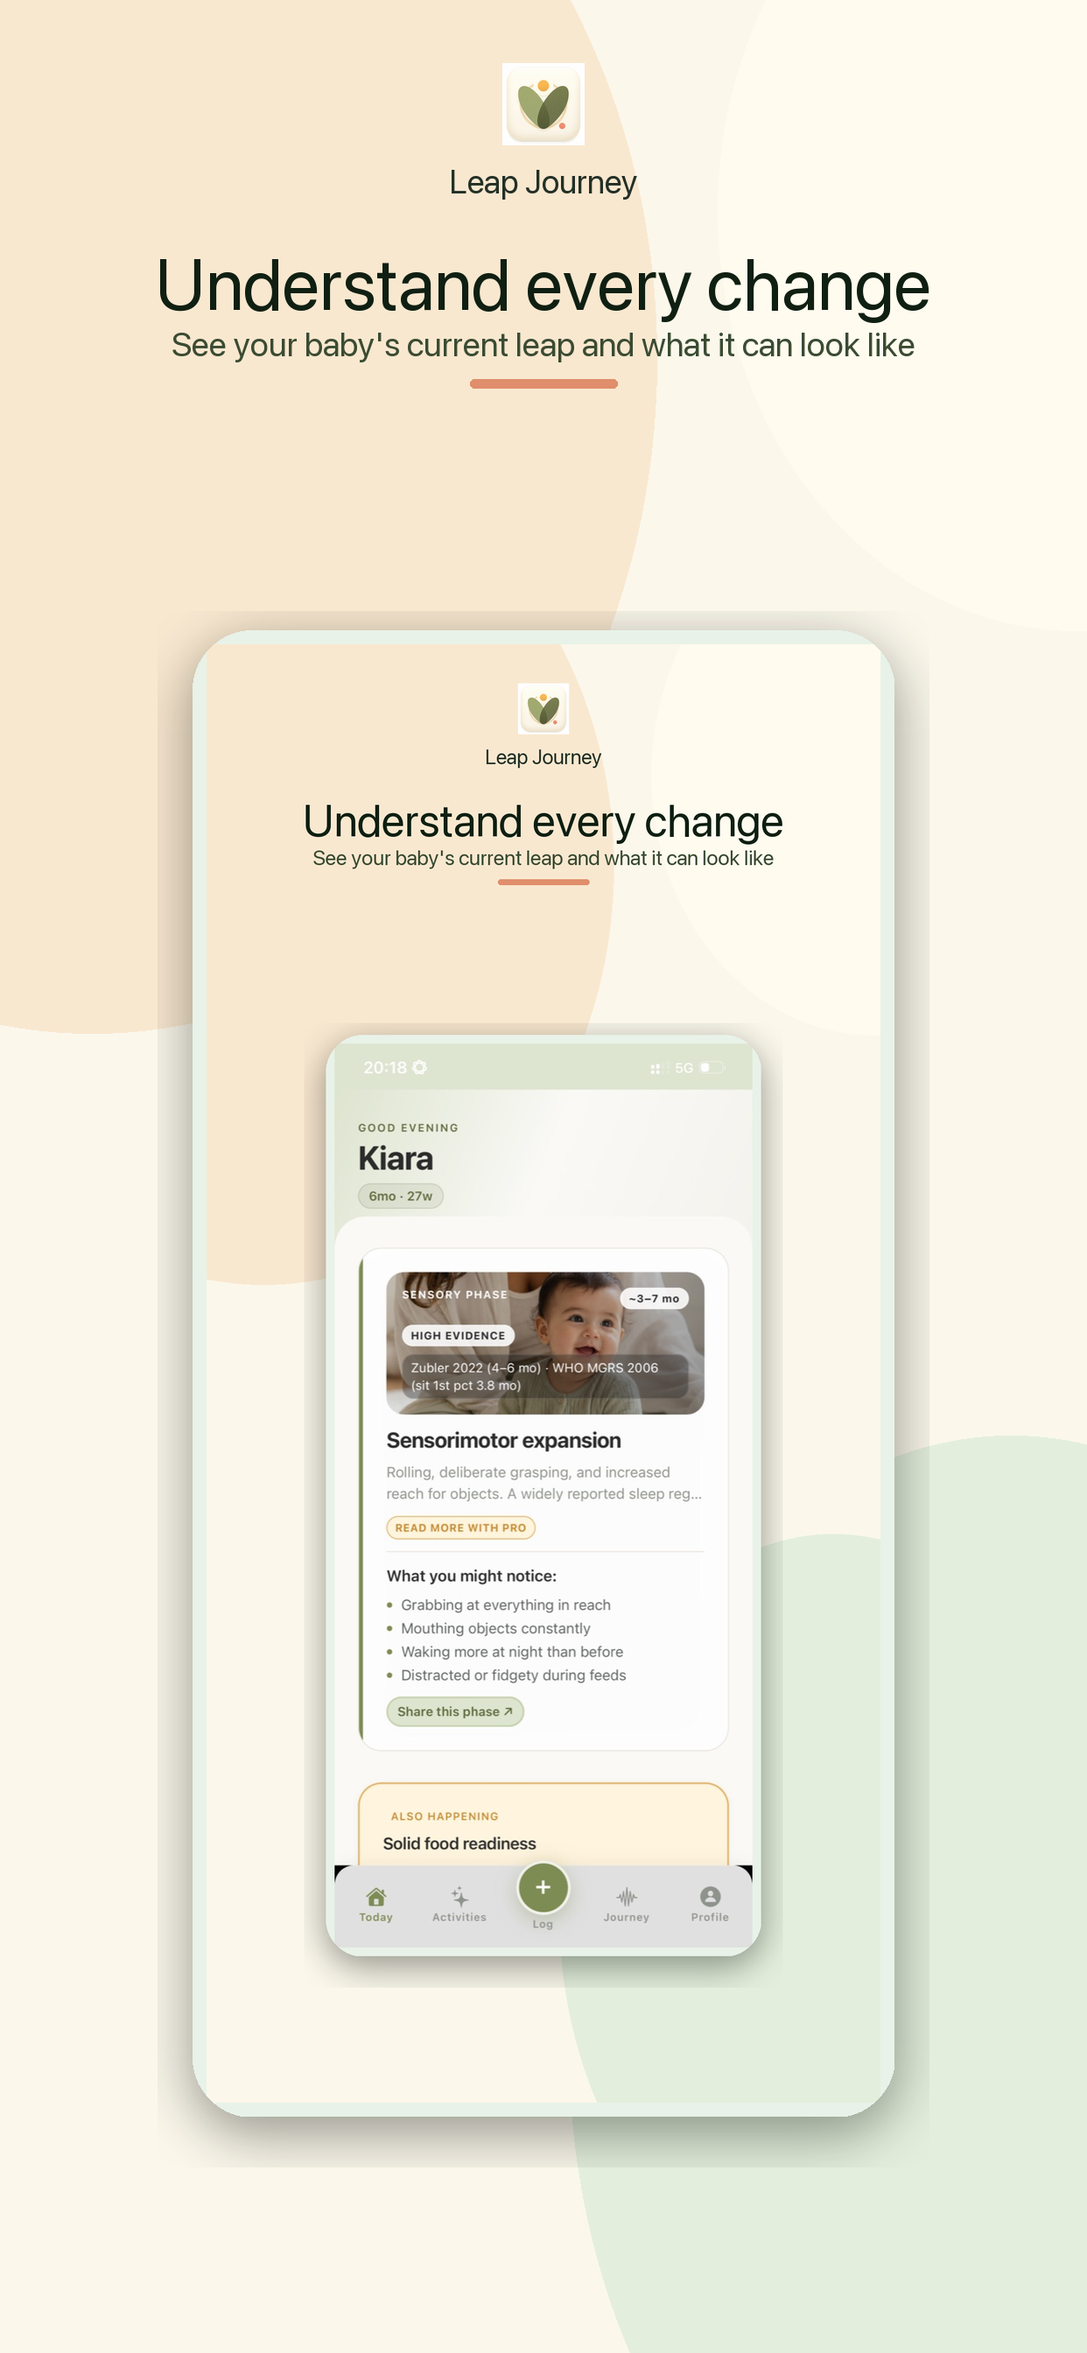
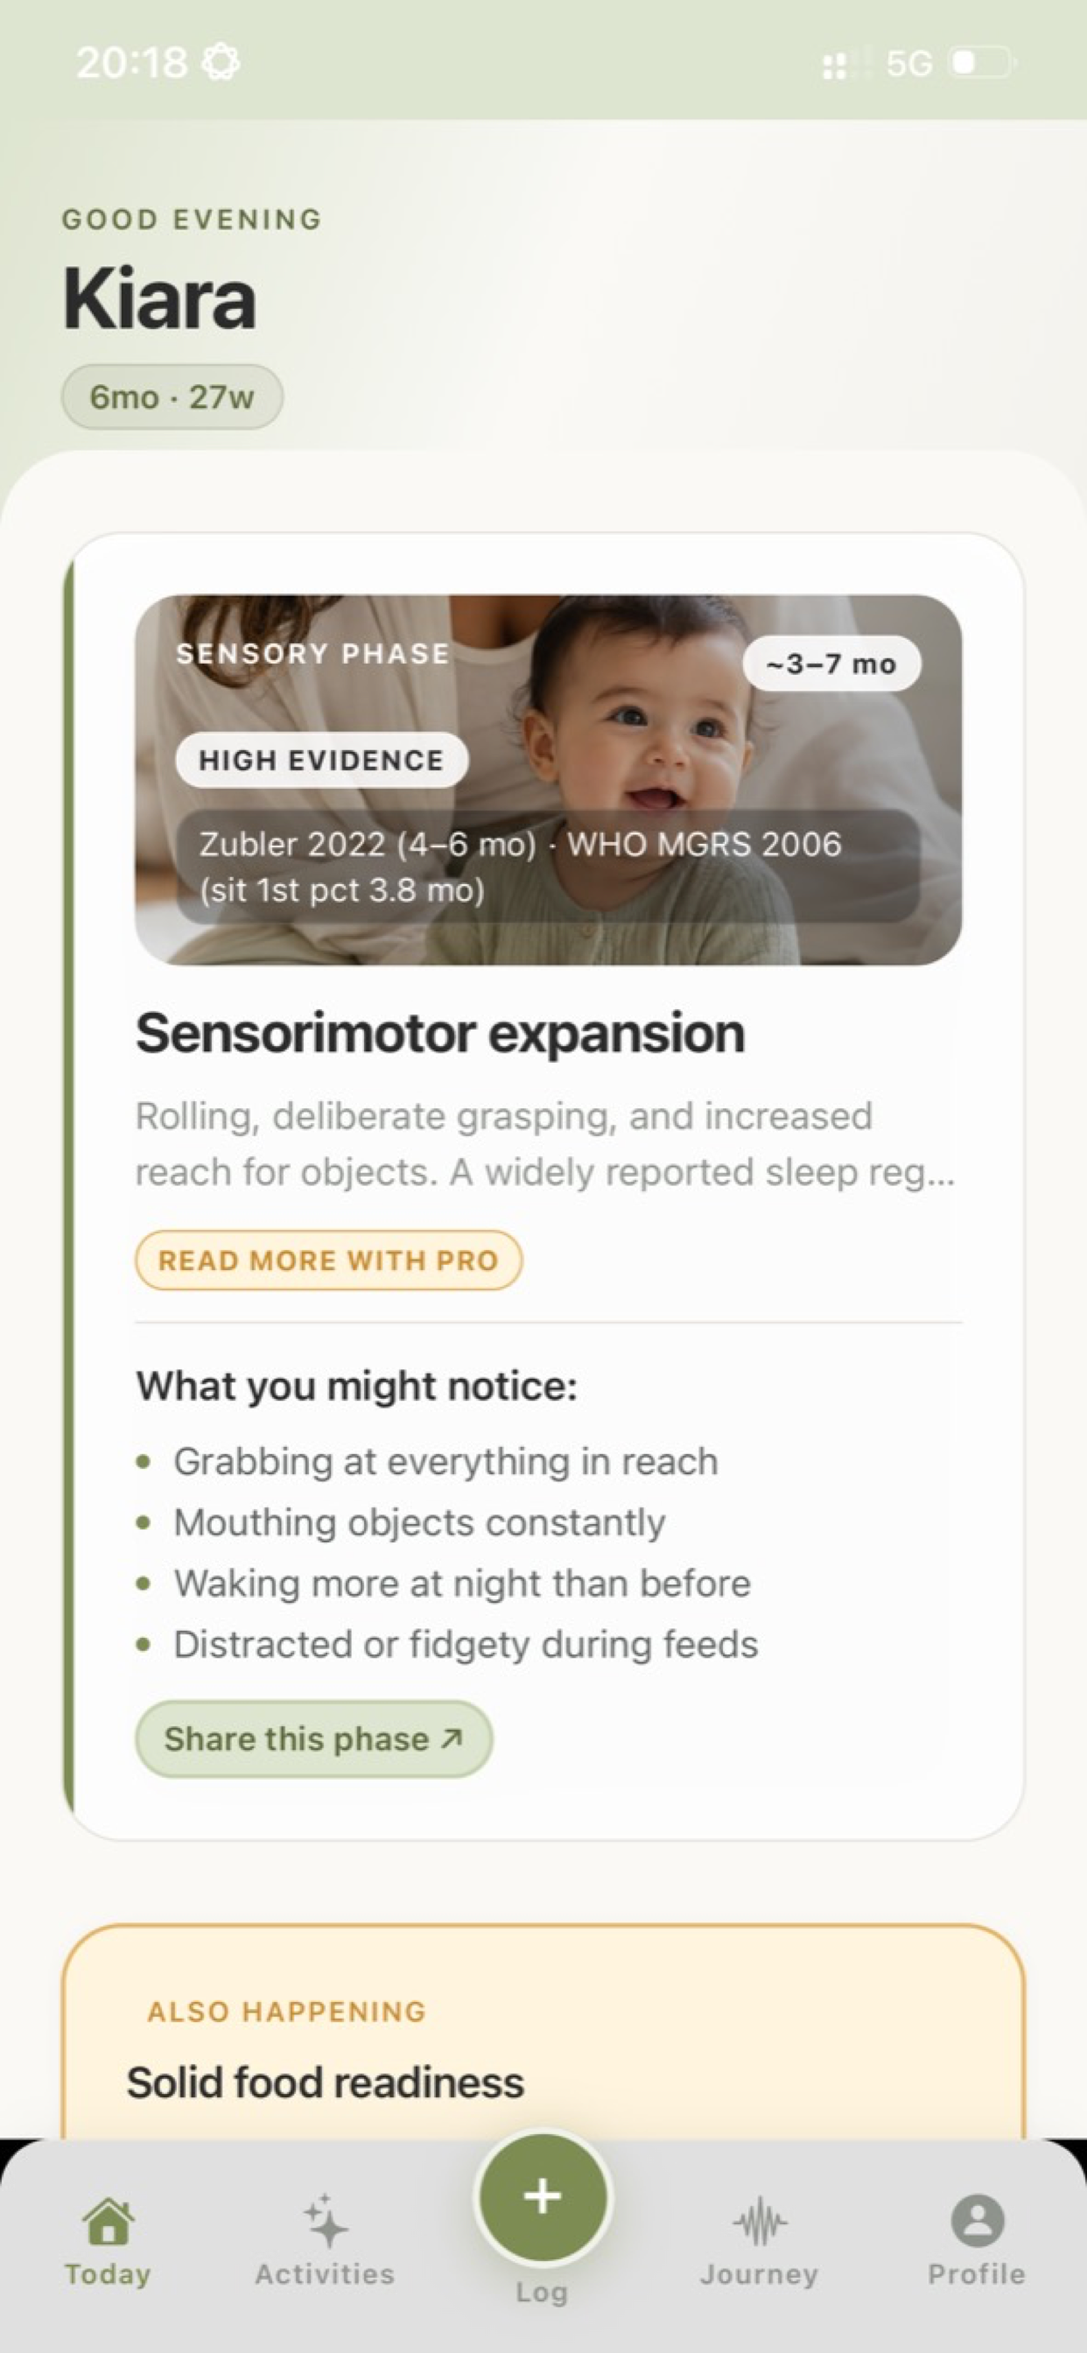
Clarify free features and improve multilingual discovery

diff --git a/index.html b/index.html
@@ -17,6 +17,11 @@
   <meta name="twitter:card" content="summary_large_image" />
 
   <link rel="canonical" href="https://micahwalkerdesign.github.io/NurturaSite/" />
+  <meta name="apple-itunes-app" content="app-id=6770261130" />
+  <link rel="alternate" hreflang="en" href="https://micahwalkerdesign.github.io/NurturaSite/" />
+  <link rel="alternate" hreflang="es" href="https://micahwalkerdesign.github.io/NurturaSite/es/" />
+  <link rel="alternate" hreflang="x-default" href="https://micahwalkerdesign.github.io/NurturaSite/" />
+  <script type="application/ld+json">{"@context":"https://schema.org","@type":"MobileApplication","name":"Leap Journey","operatingSystem":"iOS","applicationCategory":"HealthApplication","url":"https://micahwalkerdesign.github.io/NurturaSite/","installUrl":"https://apps.apple.com/app/id6770261130","offers":{"@type":"Offer","price":"0","priceCurrency":"USD"},"description":"Free baby development tracker with daily logs, memories and two activities per phase. Optional lifetime Premium is a separate in-app purchase."}</script>
 
   <link rel="icon" type="image/png" href="assets/icon.png" />
   <link rel="apple-touch-icon" href="assets/icon.png" />
@@ -45,8 +50,8 @@
     <div class="hero-text">
       <div class="hero-badge">LEAP JOURNEY · BABY DEVELOPMENT</div>
       <h1 class="hero-title">
-        Every baby develops in leaps.<br />
-        <span class="hero-title-accent">Understand yours.</span>
+        Leap Journey<br />
+        <span class="hero-title-accent">Baby development & activities.</span>
       </h1>
       <p class="hero-sub">See your baby's current developmental phase, capture daily patterns, and choose a gentle age-matched activity. Premium is a one-time $2.99 unlock.</p>
       <div class="hero-ctas">
@@ -59,11 +64,11 @@
         </a>
         <a href="#features" class="cta cta-secondary">See what it does →</a>
       </div>
-      <p class="hero-trust">Your data stays on your device. No account required. Pregnancy mode is always free.</p>
+      <p class="hero-trust">Free to download. No account required. Child profiles and logs stay on your device.</p>
     </div>
     <div class="hero-media">
       <div class="phone-frame phone-frame--featured">
-        <img src="assets/screenshots/01-home.png" alt="Leap Journey current development screen" loading="eager" />
+        <img src="assets/screenshots/01-home.png" alt="Leap Journey current development screen" width="1242" height="2688" loading="eager" fetchpriority="high" />
       </div>
     </div>
   </section>
@@ -73,7 +78,7 @@
     <div class="value">
       <div class="value-icon">🌱</div>
       <h3>See the current leap</h3>
-      <p>Know which developmental phase your baby is in right now — and why they're acting the way they are.</p>
+      <p>Explore age-related developmental phases and what you might notice. Every baby's timing is different.</p>
     </div>
     <div class="value">
       <div class="value-icon">💡</div>
@@ -82,7 +87,7 @@
     </div>
     <div class="value">
       <div class="value-icon">🤝</div>
-      <h3>Know exactly what to do</h3>
+      <h3>Find an activity to try</h3>
       <p>Age-specific activities & tips matched to your baby's phase — adapting as you log what you're seeing.</p>
     </div>
   </section>
@@ -98,12 +103,12 @@
     <div class="feature-grid">
       <article class="feature-card feature-card--wide">
         <div class="feature-copy">
-          <h3>Daily check-in in seconds</h3>
-          <p>Tap the big "All good today" button for routine days. Or capture sleep, fussiness, clinginess, and appetite with three-tap sliders. A streak counter celebrates consistency.</p>
+          <h3>Age-matched activities, ready today</h3>
+          <p>Find a simple play idea for your baby's developmental phase. Try two activities per phase for free, with the full activity journey available in Premium.</p>
         </div>
         <div class="feature-media">
           <div class="phone-frame">
-            <img src="assets/screenshots/02-log.png" alt="" loading="lazy" />
+            <img src="assets/screenshots/02-log.png" alt="Activities matched to a baby's phase" width="1242" height="2688" loading="lazy" />
           </div>
         </div>
       </article>
@@ -115,7 +120,7 @@
         </div>
         <div class="feature-media">
           <div class="phone-frame">
-            <img src="assets/screenshots/01-home.png" alt="Leap Journey current phase screen" loading="lazy" />
+            <img src="assets/screenshots/01-home.png" alt="Leap Journey current phase screen" width="1242" height="2688" loading="lazy" />
           </div>
         </div>
       </article>
@@ -127,7 +132,7 @@
         </div>
         <div class="feature-media">
           <div class="phone-frame">
-            <img src="assets/screenshots/06-journey.png" alt="" loading="lazy" />
+            <img src="assets/screenshots/04-journey.png" alt="Developmental phases and memories" width="1242" height="2688" loading="lazy" />
           </div>
         </div>
       </article>
@@ -139,7 +144,7 @@
         </div>
         <div class="feature-media">
           <div class="phone-frame">
-            <img src="assets/screenshots/03-journey.png" alt="Leap Journey activities screen" loading="lazy" />
+            <img src="assets/screenshots/02-log.png" alt="Leap Journey activities screen" width="1242" height="2688" loading="lazy" />
           </div>
         </div>
       </article>
@@ -147,11 +152,11 @@
       <article class="feature-card">
         <div class="feature-copy">
           <h3>Local-first & private</h3>
-          <p>Profiles, logs, notes, memories, and photos stay on your device. No account, cloud sync, ads, or analytics.</p>
+          <p>Profiles, logs, notes, memories, and photos stay on your device. No account, cloud sync, or ads. Apple and RevenueCat process purchases and purchase-related analytics, as explained in our privacy policy.</p>
         </div>
         <div class="feature-media">
           <div class="phone-frame">
-            <img src="assets/screenshots/04-journey.png" alt="Leap Journey local memories and phases" loading="lazy" />
+            <img src="assets/screenshots/04-journey.png" alt="Leap Journey local memories and phases" width="1242" height="2688" loading="lazy" />
           </div>
         </div>
       </article>
@@ -163,7 +168,7 @@
     <div class="premium-card">
       <p class="premium-eyebrow">PREMIUM</p>
       <h2 class="premium-title">Unlock once for $2.99.</h2>
-      <p class="premium-sub">Lifetime access. No subscription, trial, or automatic renewal.</p>
+      <p class="premium-sub">US price. Your local App Store price is shown before purchase. Lifetime access, with no subscription, trial, or automatic renewal.</p>
 
       <ul class="premium-features">
         <li><span class="premium-feature-title">Patterns from your logs</span><span class="premium-feature-body">On-device summaries that surface what your entries are saying.</span></li>
@@ -173,7 +178,7 @@
       </ul>
 
       <p class="premium-always-free">
-        <strong>Always free, forever:</strong> daily logging, phase timeline, activity packs, memories, and the entire pregnancy journey.
+        <strong>Included for free:</strong> daily logging, phase timeline, two activities per phase, memories, and the entire pregnancy journey.
       </p>
 
       <a href="https://apps.apple.com/app/id6770261130" class="cta cta-primary cta-large" rel="noopener">
@@ -200,6 +205,8 @@
       <a href="privacy.html">Privacy</a>
       <a href="terms.html">Terms</a>
       <a href="support.html">Support</a>
+      <a href="baby-development-tracker.html">Baby development guide</a>
+      <a href="es/" lang="es">Español</a>
       <a href="mailto:support@nurtura.app">Contact</a>
     </nav>
     <p class="footer-copy">© 2026 Micah John Walker · Leap Journey is not a medical device and does not diagnose, treat, or replace professional advice.</p>

diff --git a/es/index.html b/es/index.html
@@ -3,11 +3,44 @@
 <head>
   <meta charset="UTF-8" />
   <meta name="viewport" content="width=device-width, initial-scale=1.0" />
-  <meta http-equiv="refresh" content="0; url=../index.html" />
-  <link rel="canonical" href="https://micahwalkerdesign.github.io/NurturaSite/index.html" />
-  <title>Leap Journey</title>
+  <title>Leap Journey: desarrollo del bebé y actividades</title>
+  <meta name="description" content="Registra el día a día de tu bebé, guarda recuerdos y encuentra actividades para su etapa. Descarga gratuita. Premium opcional de pago único, sin suscripción." />
+  <meta name="apple-itunes-app" content="app-id=6770261130" />
+  <link rel="canonical" href="https://micahwalkerdesign.github.io/NurturaSite/es/" />
+  <link rel="alternate" hreflang="en" href="https://micahwalkerdesign.github.io/NurturaSite/" />
+  <link rel="alternate" hreflang="es" href="https://micahwalkerdesign.github.io/NurturaSite/es/" />
+  <link rel="alternate" hreflang="x-default" href="https://micahwalkerdesign.github.io/NurturaSite/" />
+  <link rel="icon" href="../assets/icon.png" />
+  <link rel="stylesheet" href="../styles.css" />
 </head>
 <body>
-  <p>The current Leap Journey is available in English at <a href="../index.html">../index.html</a>.</p>
+  <header class="nav">
+    <a class="nav-brand" href="./"><img src="../assets/icon.png" alt="" width="32" height="32" /><span>Leap Journey</span></a>
+    <nav class="nav-links"><a href="#actividades">Actividades</a><a href="#premium">Premium</a><a href="../" lang="en">English</a></nav>
+    <a class="nav-cta" href="https://apps.apple.com/es/app/id6770261130">Descargar</a>
+  </header>
+  <main>
+    <section class="privacy-strip">
+      <h1>Leap Journey: desarrollo del bebé y actividades</h1>
+      <p>Observa los cambios de tu bebé, registra su día a día y encuentra una idea de juego para su etapa. Cada bebé sigue su propio ritmo: las fases son una orientación, no un calendario exacto.</p>
+      <p>Descarga gratuita. Sin cuenta. Los perfiles, registros y recuerdos de tu bebé se guardan en tu dispositivo.</p>
+      <a class="cta cta-primary" href="https://apps.apple.com/es/app/id6770261130">Descargar en el App Store</a>
+    </section>
+    <section class="features" id="actividades">
+      <header class="section-header"><h2 class="section-title">Una idea para hoy, un recuerdo para mañana</h2><p class="section-lead">Consulta actividades para la etapa de tu bebé y guarda lo que vas observando.</p></header>
+      <div class="feature-grid">
+        <article class="feature-card"><div class="feature-copy"><h3>Actividades por etapa</h3><p>Prueba dos actividades por fase sin pagar. Premium desbloquea el recorrido completo de actividades.</p></div><div class="feature-media"><div class="phone-frame"><img src="../assets/screenshots/02-log.png" alt="Pantalla de actividades de Leap Journey; ejemplo en inglés" width="1242" height="2688" loading="lazy" /></div></div></article>
+        <article class="feature-card"><div class="feature-copy"><h3>Registros y recuerdos</h3><p>Registra sueño, alimentación, estado de ánimo y tus observaciones. Guarda momentos importantes junto a las fases de desarrollo.</p></div><div class="feature-media"><div class="phone-frame"><img src="../assets/screenshots/04-journey.png" alt="Recuerdos y fases del desarrollo; ejemplo en inglés" width="1242" height="2688" loading="lazy" /></div></div></article>
+      </div>
+    </section>
+    <section class="privacy-strip" id="premium">
+      <h2>Empieza gratis. Premium es opcional.</h2>
+      <p>Incluido gratis: registros diarios, línea temporal de fases, dos actividades por fase, recuerdos y el modo embarazo.</p>
+      <p>Premium añade el recorrido completo de actividades, patrones de tus registros e informes. Un único pago para acceso de por vida, sin suscripción ni renovación automática. Consulta el precio local en el App Store antes de comprar; el precio en Estados Unidos es de 2,99 USD.</p>
+      <a class="cta cta-primary" href="https://apps.apple.com/es/app/id6770261130">Probar Leap Journey</a>
+    </section>
+    <section class="privacy-strip"><h2>Privacidad clara</h2><p>Sin anuncios ni sincronización en la nube. Apple y RevenueCat procesan las compras y los datos relacionados con ellas. Tus registros y fotos no se envían a estos servicios.</p><p>Leap Journey no es un dispositivo médico. No diagnostica ni sustituye la atención de un profesional sanitario.</p></section>
+  </main>
+  <footer class="footer"><nav class="footer-nav"><a href="privacy.html">Privacidad</a><a href="terms.html">Condiciones</a><a href="support.html">Ayuda</a><a href="../" lang="en">English</a></nav><p class="footer-copy">© 2026 Micah John Walker</p></footer>
 </body>
 </html>

diff --git a/baby-development-tracker.html b/baby-development-tracker.html
@@ -1,0 +1,33 @@
+<!DOCTYPE html>
+<html lang="en">
+<head>
+  <meta charset="UTF-8" />
+  <meta name="viewport" content="width=device-width, initial-scale=1.0" />
+  <title>Baby Development Tracker: Logs, Activities & Memories | Leap Journey</title>
+  <meta name="description" content="Keep useful baby development notes without turning milestones into deadlines. Explore Leap Journey's free daily logs, memories and age-matched activity samples." />
+  <link rel="canonical" href="https://micahwalkerdesign.github.io/NurturaSite/baby-development-tracker.html" />
+  <meta name="apple-itunes-app" content="app-id=6770261130" />
+  <link rel="stylesheet" href="styles.css" />
+</head>
+<body>
+  <header class="nav"><a href="./" class="nav-brand"><img src="assets/icon.png" alt="" width="32" height="32" /><span>Leap Journey</span></a><a href="https://apps.apple.com/app/id6770261130" class="nav-cta">Get the app</a></header>
+  <main class="guide">
+    <h1>A baby development tracker for everyday observations</h1>
+    <p>A first reach, a new sound, a different sleep pattern: the details can be hard to remember when you are caring for a baby. Leap Journey brings daily notes, activities and memories together without requiring an account.</p>
+    <h2>What to record</h2>
+    <p>Keep entries specific to what you observed. You might note a new movement, interest in an object, a sound, or a change in feeding or sleep. A date and a short note are often more useful to look back on than a general label such as “good” or “bad.” You do not need to fill every field every day.</p>
+    <p>The app includes daily logging for sleep, feeding, mood, movement, language and caregiver notes. These are your observations, not a diagnosis or an automated assessment of your child's health.</p>
+    <h2>Activities by developmental phase</h2>
+    <p>Open Activities to browse ideas associated with each phase. Two activities per phase are free, so you can try the format before deciding whether the full activity journey is useful to your family. Follow each activity's guidance, supervise play, and choose an idea appropriate for your baby's current abilities.</p>
+    <figure><img src="assets/screenshots/02-log.png" width="1242" height="2688" loading="lazy" alt="Leap Journey Activities screen with developmental phases" /><figcaption>The Activities screen groups play ideas by phase.</figcaption></figure>
+    <h2>Keep memories separate from pressure</h2>
+    <p>Save the moments you want to remember alongside your notes. Age-related phases provide context, not a promise about when an individual baby will develop a skill. The app does not diagnose delays or replace professional developmental screening. Bring concerns to your child's healthcare professional rather than waiting for an app to flag them.</p>
+    <h2>Free and Premium, clearly separated</h2>
+    <p>Daily logs, the phase timeline, two activities per phase, memories and pregnancy mode are included free. Optional Premium adds the full activity journey, patterns from your logs and reports. It is a one-time purchase, not a subscription: $2.99 in the US, with your local price displayed before buying.</p>
+    <h2>Where your records live</h2>
+    <p>Your child profiles, notes and photos stay on your device. There is no cloud sync. Apple and RevenueCat process purchases and purchase-related analytics, not your child logs or photos. Read the <a href="privacy.html">privacy policy</a> for details and take care to preserve any records you need before deleting the app.</p>
+    <p><a class="cta cta-primary" href="https://apps.apple.com/app/id6770261130">Try Leap Journey for free</a></p>
+  </main>
+  <footer class="footer"><nav class="footer-nav"><a href="./">Leap Journey</a><a href="privacy.html">Privacy</a><a href="support.html">Support</a></nav></footer>
+</body>
+</html>

diff --git a/styles.css b/styles.css
@@ -63,15 +63,23 @@ body {
   font-size: 16px;
 }
 
-img { max-width: 100%; display: block; }
+img { max-width: 100%; height: auto; display: block; }
 
 a { color: inherit; text-decoration: none; }
 
 p { margin: 0 0 0.6em; }
 
-h1, h2, h3 { font-weight: 800; letter-spacing: -0.02em; line-height: 1.15; margin: 0 0 0.4em; }
-h2 { font-size: clamp(28px, 4vw, 44px); }
-h3 { font-size: 20px; letter-spacing: -0.01em; }
+h1, h2, h3 { font-weight: 800; letter-spacing: 0; line-height: 1.15; margin: 0 0 0.4em; overflow-wrap: break-word; }
+h2 { font-size: 32px; }
+h3 { font-size: 20px; }
+.guide { max-width: 760px; margin: 48px auto; padding: 0 24px; }
+.guide h1 { font-size: 36px; }
+.guide h2 { font-size: 24px; margin-top: 32px; }
+.guide p { line-height: 1.7; margin-bottom: 20px; }
+.guide a:not(.cta) { text-decoration: underline; }
+.guide figure { margin: 32px 0; }
+.guide figure img { width: 280px; height: auto; margin: auto; }
+.guide figcaption { text-align: center; margin-top: 12px; }
 
 /* ─── Nav ───────────────────────────────────────────────────────────── */
 .nav {
@@ -186,7 +194,7 @@ h3 { font-size: 20px; letter-spacing: -0.01em; }
 }
 
 .hero-title {
-  font-size: clamp(40px, 6vw, 64px);
+  font-size: 48px;
   margin-bottom: 16px;
 }
 .hero-title-accent { color: var(--deep-sage); }
@@ -503,7 +511,7 @@ h3 { font-size: 20px; letter-spacing: -0.01em; }
   color: rgba(255,255,255,0.8);
   margin: 0 0 12px;
 }
-.premium-title { font-size: clamp(36px, 5vw, 56px); margin: 0 0 12px; color: #fff; }
+.premium-title { font-size: 36px; margin: 0 0 12px; color: #fff; }
 .premium-sub { font-size: 18px; color: rgba(255,255,255,0.85); margin: 0 0 32px; }
 
 .premium-features {
@@ -553,7 +561,7 @@ h3 { font-size: 20px; letter-spacing: -0.01em; }
   border-top: 1px solid var(--border);
 }
 .privacy-strip h2 {
-  font-size: clamp(28px, 4vw, 40px);
+  font-size: 32px;
   margin-bottom: 16px;
 }
 .privacy-strip p {
